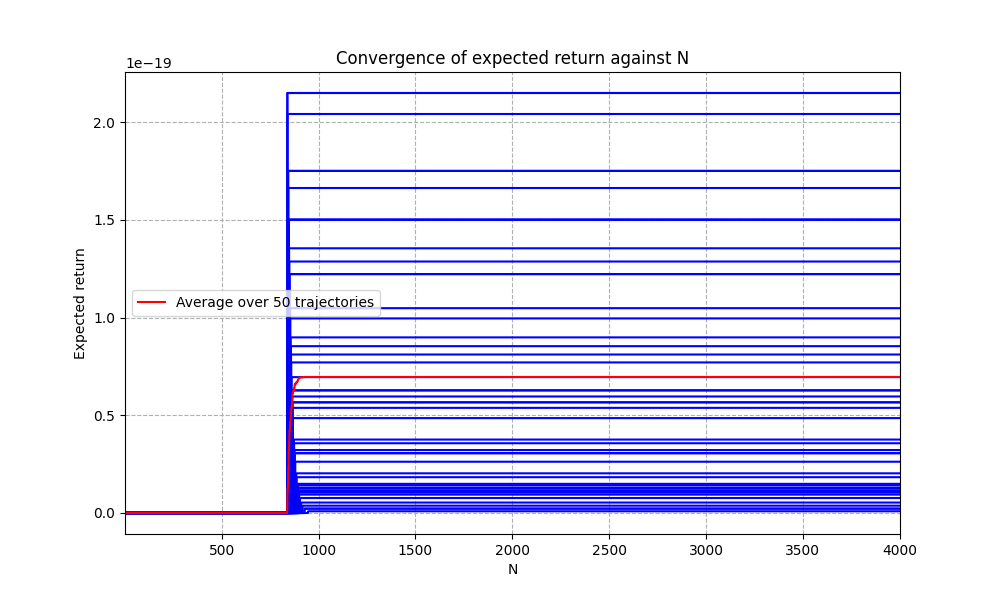
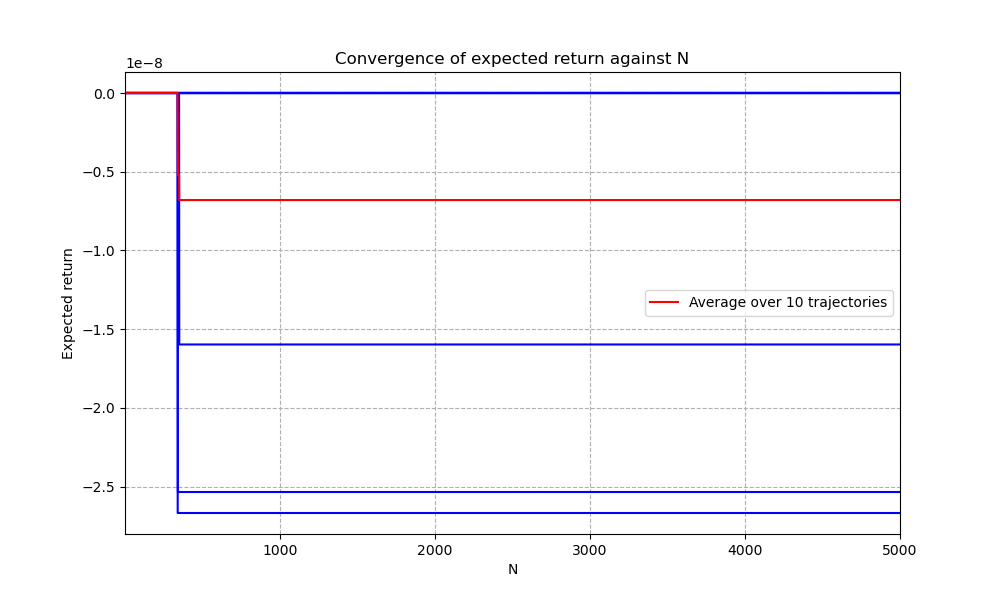
some tests on sections 1 and 2

diff --git a/src/p2/section2.py b/src/p2/section2.py
@@ -1,7 +1,7 @@
 import numpy as np
 import matplotlib.pyplot as plt
 from section1 import Domain
-# from section1 import AcceleratingAgent
+from section1 import AcceleratingAgent
 from section1 import MomentumAgent
 
 class PolicyEstimator:
@@ -14,6 +14,7 @@ class PolicyEstimator:
 
         for i in range(n_initials):
             self.domain.reset() # Reset the domain
+            # self.domain.set_state(-0.0986, 0)
             cum_reward = 0
 
             for j in range(N):
@@ -23,16 +24,20 @@ class PolicyEstimator:
                 cum_reward += (self.domain.discount ** j) * r # Update cumulative reward
                 est_return[i, j] = cum_reward # Store current cumulative reward
 
+            (print(self.domain.get_trajectory()[-1]))
+
         return est_return
     
     def plot_return(self, N, n_initials, path="../../figures/project2/section2"):
         """Plot the evolution of the estimated expected return against horizon N."""
         evol_return = self.policy_return(N, n_initials)
 
+        print(evol_return[:,-1])
+
         plt.figure(figsize=(10, 6))
         for i in range(n_initials):
             plt.plot(range(1, N + 1), evol_return[i, :], color = 'blue')
-        plt.plot(range(1, N+1), np.mean(evol_return, axis = 0), color = 'red', label = 'Average over 50 trajectories')
+        plt.plot(range(1, N+1), np.mean(evol_return, axis = 0), color = 'red', label = f'Average over {n_initials} trajectories')
         plt.title(f"Convergence of expected return against N")
         plt.xlabel('N')
         plt.ylabel('Expected return')
@@ -51,9 +56,9 @@ if __name__ == "__main__":
     # agent = AcceleratingAgent()
     policy_est = PolicyEstimator(domain, agent)
 
-    n_initials = 50 # Number of initial states
-    N = 4000 # Horizon
-    policy_est.plot_return(4000, n_initials)
+    n_initials = 10 # Number of initial states
+    N = 5000 # Horizon
+    policy_est.plot_return(N, n_initials)
 
 
 

diff --git a/src/p2/section1.py b/src/p2/section1.py
@@ -143,8 +143,8 @@ if __name__ == "__main__":
     domain = Domain() # Create the environment
     domain.sample_initial_state() # Sample an initial state
     
-    # agent = MomentumAgent() # Create the agent
-    agent = AcceleratingAgent()
+    agent = MomentumAgent() # Create the agent
+    # agent = AcceleratingAgent()
 
     # Simulate the system
     n_steps = 1000
